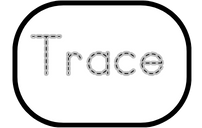
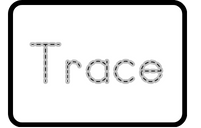
updates to trace view

Changed region(s): [[0.0299, 0.0, 0.9552, 1.0], [0.2985, 0.375, 0.8358, 0.6562], [0.1493, 0.25, 0.3284, 0.6562]]

diff --git a/src/views/TraceView.js b/src/views/TraceView.js
@@ -17,6 +17,8 @@ const TraceView = ({ navigation, route }) => {
   const aspectRatio = screenWidth / screenHeight;
   const { markActivityCompleted, checkFlyingHigh, isLoading } = useProgress();
 
+
+  // Back Button Functionality
   const handleCustomBackAction = async () => {
     // Call your function before navigating back
     Alert.alert("Congrats!", "You've completed the Trace, Copy, Cover activity.");
@@ -39,14 +41,16 @@ const TraceView = ({ navigation, route }) => {
       ),
     });
   }, [navigation]);
+  // End Of Back Button Functionality
 
-  
+  // Set the background to trace image
   const setTraceBackground = () => {
-    setBackground(traceBackground); // Set the background to trace image
+    setBackground(traceBackground); 
   };
   
+  // Set the background to cover image
   const setCoverBackground = () => {
-    setBackground(coverBackground); // Set the background to cover image
+    setBackground(coverBackground); 
   };
 
   const colorOptions = ["black", "red", "blue", "green", "yellow", "purple"];
@@ -59,14 +63,14 @@ const TraceView = ({ navigation, route }) => {
     onStartShouldSetPanResponder: () => true,
     onPanResponderGrant: (evt, gestureState) => {
       // Start a new path with M command    
-      correctionFactor = 20;
+      aspectRatio > 1.7 ? correctionFactor = -20 : correctionFactor = -50;
       const correctedY0 = gestureState.y0 - correctionFactor;
       const newPoint = `M${gestureState.x0},${correctedY0}`;
       setPaths((prevPaths) => [...prevPaths, newPoint]);
     },
     onPanResponderMove: (evt, gestureState) => {
       // Add line to command to the current path
-      correctionFactor = 20;
+      aspectRatio > 1.7 ? correctionFactor = -20 : correctionFactor = -50;
       const correctedMoveY = gestureState.moveY - correctionFactor;
       const newPoint = `L${gestureState.moveX},${correctedMoveY}`;
       setPaths((prevPaths) => [...prevPaths.slice(0, -1), prevPaths[prevPaths.length - 1] + ' ' + newPoint]);
@@ -91,35 +95,53 @@ const TraceView = ({ navigation, route }) => {
       flexDirection: 'column',
       justifyContent: 'center',
       alignItems: 'center',
-      resizeMode: 'contain',
-      
     },
     svgContainer: {
       flex: 1,
       justifyContent: 'center',
       alignItems: 'center',
     },
-    eraser: {
-      position: 'absolute',
-      left: 200,
-      bottom: 20,
+    lowerContainer: {
+      flex: .25,
+      flexDirection: 'row',
+
     },
-  crayonBox: {
-      position: 'absolute',
-      left: 0,
-      bottom: 20,
-  },
-  crayonBoxImage: {
-      width: 100,
-      height: 100,
-      borderColor: 'black',
-      marginLeft: 50,
-  },
+    lowerContainerLeft: {
+      flex: 1,
+      flexDirection: 'row',
+      justifyContent: 'flex-start',
+      alignItems: 'center',
+    },
+    lowerContainerMiddle: {
+      flex: 1,
+      flexDirection: 'row',
+      justifyContent: 'center',
+      alignItems: 'center',
+    },
+    lowerContainerRight: {
+      flex: 1,
+      flexDirection: 'row',
+      justifyContent: 'flex-end',
+      alignItems: 'center',
+    },
+    eraser: {
+      width: aspectRatio > 1.75 ? '27%': '40%',
+      height: aspectRatio > 1.75 ? '70%': '60%',
+      marginLeft: '5%',
+    },
     eraserImage: {
-      width: 100,
-      height: 50,
-      borderColor: 'black',
-  
+      width: '100%',
+      height: '100%',
+    },
+    crayonBox: {
+      width: aspectRatio > 1.75 ? '16%': '25%',
+      height: aspectRatio > 1.75 ? '90%': '85%',
+      marginLeft: '15%',
+      
+    },
+    crayonBoxImage: {
+      width: '100%',
+      height: '100%',
     },
     colorPickerContainer: {
       position: 'absolute',
@@ -137,48 +159,31 @@ const TraceView = ({ navigation, route }) => {
       margin: 5,
     },
     trace: {
-      position: 'absolute',
-      right: screenWidth * .05,
-      top: screenHeight * .2,
+      width: aspectRatio > 1.75 ? '35%': '43%',
+      height: aspectRatio > 1.75 ? '90%': '74%',
+      marginRight: '5%',
     },
     traceImage: {
-      width: aspectRatio > 1.5 ?  screenWidth * .12 : screenWidth * .15,
-      height: aspectRatio > 1.5 ?  screenHeight * .16 : screenHeight * .14,
-      borderColor: 'black',
-      marginRight: 50,
-    },
-    copy: {
-      position: 'absolute',
-      right: screenWidth * .05,
-      top: screenHeight * .45,
-    },
-    copyImage: {
-      width: aspectRatio > 1.5 ?  screenWidth * .11 : screenWidth * .14,
-      height: aspectRatio > 1.5 ?  screenHeight * .17 : screenHeight * .143,
-      borderColor: 'black',
-      marginRight: 50,
+      width: '100%',
+      height: '100%',
     },
     cover: {
-      position: 'absolute',
-      right: screenWidth * .05,
-      top: screenHeight * .7,
+      width: aspectRatio > 1.75 ? '32%': '40%',
+      height: aspectRatio > 1.75 ? '94%': '75%',
+      marginRight: '15%',
     },
     coverImage: {
-      width: aspectRatio > 1.5 ?  screenWidth * .11 : screenWidth * .13,
-      height: aspectRatio > 1.5 ?  screenHeight * .18 : screenHeight * .14,
-      borderColor: 'black',
-      marginRight: 50,
+      width: '100%',
+      height: '100%',
     },
     sound: {
-      position: 'absolute',
-      left: screenWidth * .17,
-      top: screenHeight * .20,
+      width: aspectRatio > 1.75 ? '20%': '20%',
+      height: aspectRatio > 1.75 ? '50%': '35%',
+      marginLeft: '5%',
     },
     soundImage: {
-      width: aspectRatio > 1.5 ?  screenWidth * .10 : screenWidth * .10,
-      height: aspectRatio > 1.5 ?  screenHeight * .15 : screenHeight * .10,
-      borderColor: 'black',
-      marginRight: 50,
+      width: '100%',
+      height: '100%',
     },
   });
 
@@ -198,29 +203,6 @@ const TraceView = ({ navigation, route }) => {
         </Svg>
       </View>
       
-      <TouchableOpacity style={styles.eraser} onPress={handleClearButtonClick}>
-        <Image source={require('../assets/traceViews/eraser.png')} style={styles.eraserImage} />
-      </TouchableOpacity>
-  
-      <TouchableOpacity style={styles.crayonBox} onPress={toggleColorPicker}>
-        <Image source={require('../assets/traceViews/crayonBox.png')} style={styles.crayonBoxImage} />
-      </TouchableOpacity>
-
-      <TouchableOpacity style={styles.trace} onPress={setTraceBackground}>
-        <Image source={require('../assets/traceViews/trace.png')} style={styles.traceImage} />
-      </TouchableOpacity>
-
-      <View style={styles.copy}>  
-        <Image source={require('../assets/traceViews/copy.png')} style={styles.copyImage} />
-      </View>
-
-      <TouchableOpacity style={styles.cover} onPress={() => {setCoverBackground(); handleClearButtonClick();}}>
-        <Image source={require('../assets/traceViews/cover.png')} style={styles.coverImage} />
-      </TouchableOpacity>
-
-      <TouchableOpacity style={styles.sound} onPress={() => console.log('Sound button pressed')}>
-        <Image source={require('../assets/traceViews/sound.png')} style={styles.soundImage} />
-      </TouchableOpacity>
   
       {/* Color Picker Overlay */}
       {showColorPicker && (
@@ -231,12 +213,51 @@ const TraceView = ({ navigation, route }) => {
               style={[styles.colorOption, {backgroundColor: optionColor}]}
               onPress={() => {
                 handleChangeColor(optionColor);
+
                 toggleColorPicker(); // Hide color picker after selection
               }}
             />
           ))}
         </View>
       )}
+
+      
+
+      <View style={styles.lowerContainer}>
+
+        <View style={styles.lowerContainerLeft}>
+
+          <TouchableOpacity style={styles.eraser} onPress={handleClearButtonClick}>
+            <Image source={require('../assets/traceViews/eraser.png')} style={styles.eraserImage} />
+          </TouchableOpacity>
+      
+          <TouchableOpacity style={styles.crayonBox} onPress={toggleColorPicker}>
+            <Image source={require('../assets/traceViews/crayonBox.png')} style={styles.crayonBoxImage} />
+          </TouchableOpacity>
+
+        </View>
+
+        <View style={styles.lowerContainerMiddle}>
+
+          <TouchableOpacity style={styles.sound} onPress={() => console.log('Sound button pressed')}>
+            <Image source={require('../assets/traceViews/sound.png')} style={styles.soundImage} />
+          </TouchableOpacity>
+
+        </View>
+
+        <View style={styles.lowerContainerRight}>
+
+          <TouchableOpacity style={styles.trace} onPress={setTraceBackground}>
+            <Image source={require('../assets/traceViews/trace.png')} style={styles.traceImage} />
+          </TouchableOpacity>
+
+          <TouchableOpacity style={styles.cover} onPress={() => {setCoverBackground(); handleClearButtonClick();}}>
+            <Image source={require('../assets/traceViews/try.png')} style={styles.coverImage} />
+          </TouchableOpacity>
+
+        </View>
+
+      </View>
   
       {/* Additional buttons for changing color */}
     </ImageBackground>
